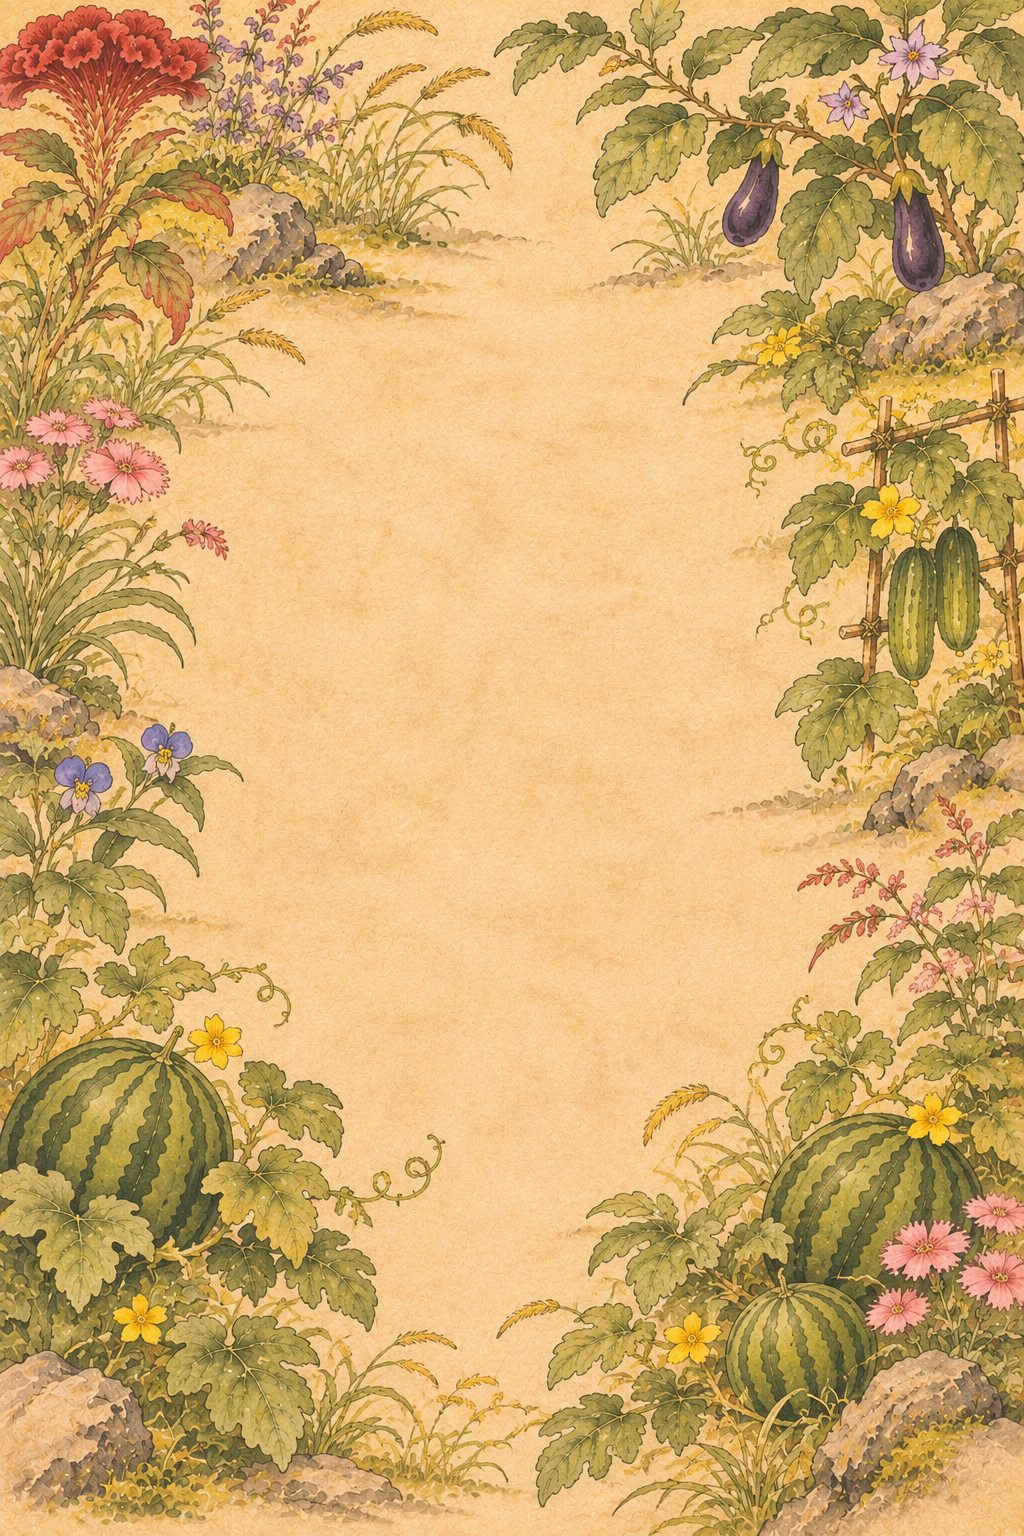
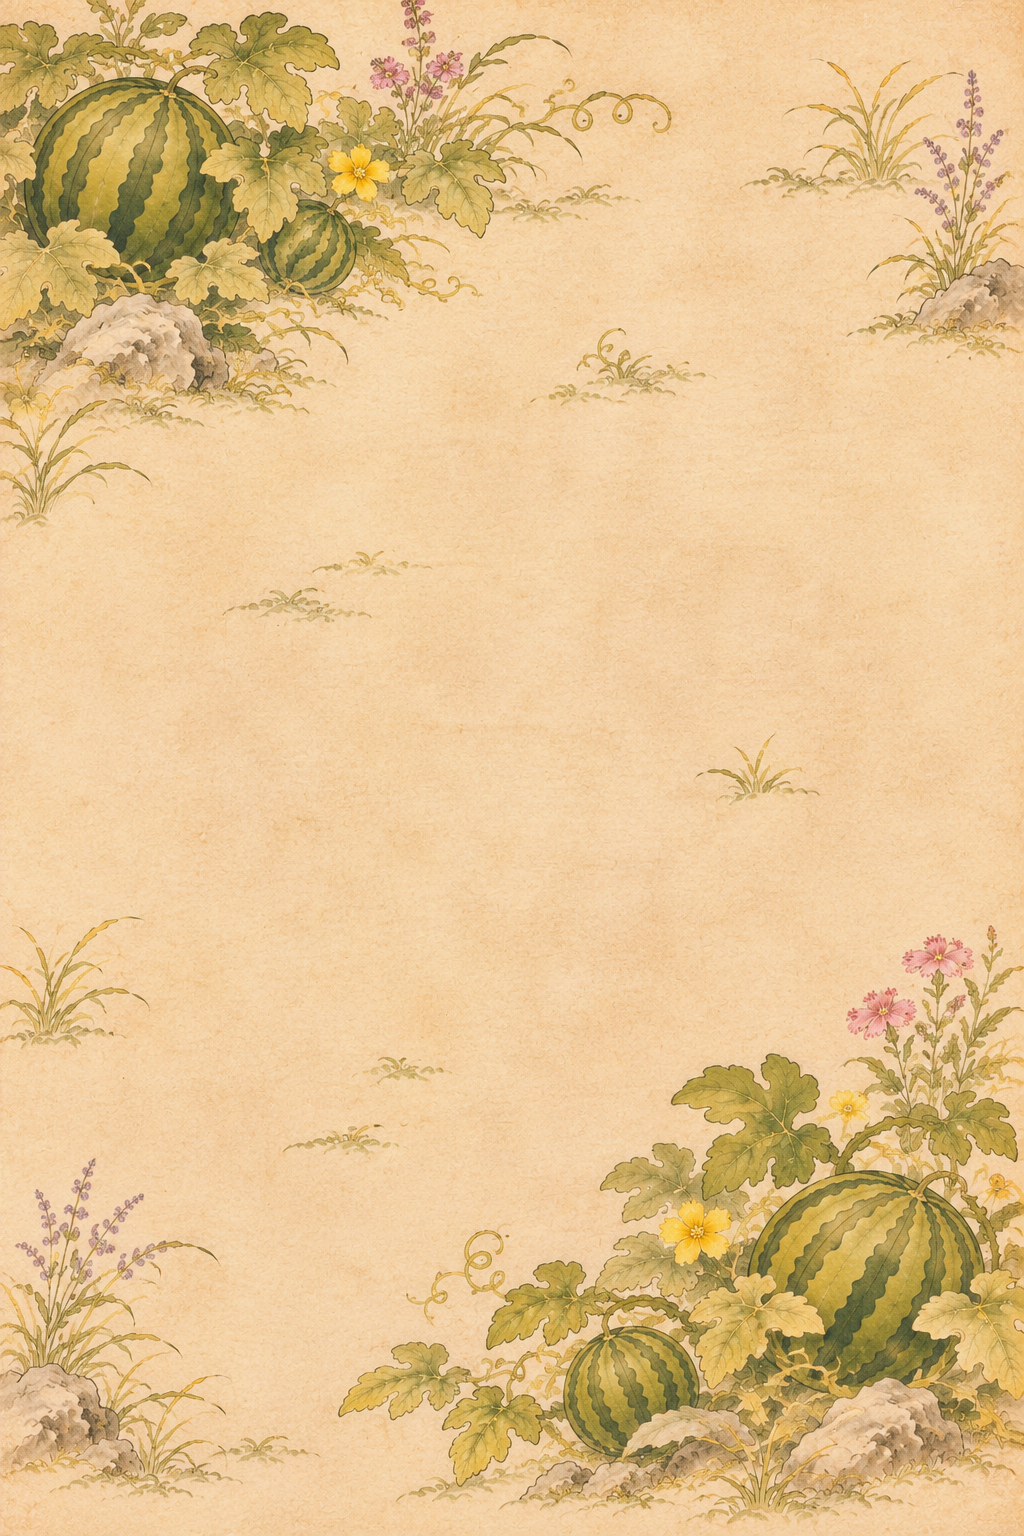
art(chochungdo): 구역 2 새 그림 — 양귀비(추천)·수박(예비) 대각 배치, 종이 색을 지금 초충도에 맞춤
- 사용자 23:10 두 장을 chochungdo_poppy / chochungdo_melon(앞 판 교체)으로. 23:04 세 장과 앞 수박 판은 build/stage_src/chochungdo_orig/rejected/
- 종이 색 맞춤(생성형 없음): 가운데 빈 종이 중앙값을 chochungdo.png 종이(243,209,165)로, 종이에 가까운 색만 옮겨 식물 색은 그대로. 연못가(pond)도 같은 주황빛이라 함께 맞춤
- 글자·도장·동물 없음
- 걸을 곳·양옆 열린 높이 다시: 양귀비 왼 512~1064 / 오 366~947, 수박 왼 519~969 / 오 353~968 — 연못 왼 882~1176과 겹침
- 미리보기 두 안: (가) 지금→양귀비→연못, (나) 지금→수박→연못 (+ 표시 없는 판)

diff --git a/tools/art/zone_maps_layout.py b/tools/art/zone_maps_layout.py
@@ -9,9 +9,10 @@
 ZONES = {
     "manchuria": ["manchuria_395", "manchuria_palisade", "manchuria_camp"],
     "gyeongbokgung": ["gyeongbokgung_gate_road", "gyeongbokgung_1433", "gyeongbokgung_terrace"],
-    "chochungdo": ["chochungdo", "chochungdo_melon", "chochungdo_pond"],
+    "chochungdo": ["chochungdo", "chochungdo_poppy", "chochungdo_pond"],        # 안 (가): 양귀비 (추천)
+    "chochungdo_b": ["chochungdo", "chochungdo_melon", "chochungdo_pond"],      # 안 (나): 수박 (사임당 2판 예비)
 }
-HORIZONTAL = {"chochungdo"}
+HORIZONTAL = {"chochungdo", "chochungdo_b"}
 
 ## 지금 있는 구역의 걸을 곳은 무대 데이터(walk_area, background_rect)에서 읽는다.
 EXISTING = {"manchuria_395", "gyeongbokgung_1433", "chochungdo"}
@@ -37,10 +38,15 @@ WALK = {
         (745, 1150), (745, 1440), (280, 1440), (280, 1150), (70, 1140), (60, 900), (65, 700), (85, 520),
         (195, 495), (195, 345),
     ],
+    # 대각 배치: 왼쪽 위·오른쪽 아래 무더기, 가운데 옅은 풀 (풀 자국은 걸을 수 있음)
     "chochungdo_melon": [
-        (240, 340), (560, 300), (680, 300), (700, 420), (780, 470), (780, 800), (840, 860), (790, 1000),
-        (700, 1080), (560, 1250), (520, 1500), (440, 1500), (430, 1300), (380, 1040), (330, 1000),
-        (250, 960), (230, 720), (190, 700), (200, 580), (230, 560), (230, 400),
+        (240, 420), (500, 330), (600, 150), (790, 190), (860, 360), (1010, 400), (1010, 960), (840, 960),
+        (700, 1080), (560, 1220), (400, 1340), (380, 1500), (250, 1500), (230, 1380), (230, 1160),
+        (10, 1150), (10, 560), (130, 520),
+    ],
+    "chochungdo_poppy": [
+        (380, 450), (520, 150), (720, 150), (760, 390), (1010, 400), (1010, 900), (860, 900), (700, 1060),
+        (560, 1300), (320, 1420), (240, 1370), (240, 1030), (10, 1020), (10, 530), (120, 520),
     ],
     "chochungdo_pond": [
         (250, 430), (620, 420), (700, 470), (740, 640), (840, 800), (850, 920), (1000, 960), (1000, 1180),
@@ -56,7 +62,8 @@ CROSS = {
     "gyeongbokgung_gate_road": {"계단 올라 큰 문": (550, 290)},
     "gyeongbokgung_1433": {"위 가장자리 가운데": (512, 330)},
     "chochungdo": {"오른쪽 열린 곳 (아래)": (990, 1395), "오른쪽 열린 곳 (가운데 아래)": (990, 1165)},
-    "chochungdo_melon": {"오른쪽 — 식물로 막힘 (맨 아래만 틈)": (990, 1490)},
+    "chochungdo_melon": {"오른쪽 열림 (연못 왼쪽 열림과 겹치는 높이)": (990, 920)},
+    "chochungdo_poppy": {"오른쪽 열림 (연못 왼쪽 열림과 겹치는 높이)": (990, 920)},
 }
 
 ## 앞 구역에서 넘어와 처음 서는 곳
@@ -65,7 +72,8 @@ LAND = {
     "manchuria_camp": (495, 1440),
     "gyeongbokgung_1433": (512, 1300),
     "gyeongbokgung_terrace": (512, 1390),
-    "chochungdo_melon": (300, 880),      # 왼쪽 가장자리는 식물로 막힘 — 그림 안쪽으로 바로 내림
+    "chochungdo_melon": (90, 900),       # 왼쪽 y 519~969 열림
+    "chochungdo_poppy": (90, 900),       # 왼쪽 y 512~1064 열림
     "chochungdo_pond": (90, 1000),       # 왼쪽 y 880~1180 열림
 }
 

diff --git a/tools/art/make_zone_maps.py b/tools/art/make_zone_maps.py
@@ -31,8 +31,16 @@ CLEAN = {
         ("soften", 895, 417, 24, 13, 0, 0),   # 오른쪽 향로 둥근 무늬
     ],
     "chochungdo_melon": [],
+    "chochungdo_poppy": [],
     "chochungdo_pond": [],
 }
+
+## 종이 색 맞춤: 초충도 새 폭은 지금 chochungdo.png 종이(가운데 빈 곳 중앙값)에 맞춘다.
+## 종이에 가까운 색일수록 많이, 식물·먹선처럼 먼 색은 거의 안 옮긴다 (가중치 exp(-(거리/PAPER_SIGMA)²)).
+PAPER_REF = "chochungdo"
+PAPER_MATCH = {"chochungdo_melon", "chochungdo_poppy", "chochungdo_pond"}
+PAPER_BOX = (350, 600, 700, 1000)
+PAPER_SIGMA = 60.0
 STAGE = {"manchuria": "manchuria_orig", "gyeongbokgung": "gyeongbokgung_orig", "chochungdo": "chochungdo_orig"}
 
 
@@ -52,14 +60,30 @@ def clean(img: Image.Image, spots, feather: float = 2.5) -> Image.Image:
     return out
 
 
+def paper_color(img: Image.Image):
+    import numpy as np
+    return np.median(np.asarray(img.convert("RGB").crop(PAPER_BOX)).reshape(-1, 3).astype(float), axis=0)
+
+
+def match_paper(img: Image.Image, target) -> Image.Image:
+    import numpy as np
+    a = np.asarray(img.convert("RGB")).astype(float)
+    src = paper_color(img)
+    w = np.exp(-((np.linalg.norm(a - src, axis=2) / PAPER_SIGMA) ** 2))[..., None]
+    return Image.fromarray(np.clip(a + w * (np.asarray(target) - src), 0, 255).astype("uint8"))
+
+
 def raw_of(sid: str) -> str:
     return raw_path(f"build/stage_src/{STAGE[sid.split('_')[0]]}/{sid}_raw.png")
 
 
 def main() -> None:
     os.makedirs(os.path.join(ROOT, "assets/backgrounds"), exist_ok=True)
+    target = paper_color(Image.open(os.path.join(ROOT, MAPS, f"{PAPER_REF}.png")))
     for sid, spots in CLEAN.items():
         src = clean(Image.open(raw_of(sid)).convert("RGB"), spots)
+        if sid in PAPER_MATCH:
+            src = match_paper(src, target)
         src.save(os.path.join(ROOT, MAPS, f"{sid}.png"), optimize=True)
         upscale(src).save(os.path.join(ROOT, "assets/backgrounds", f"{sid}.png"), optimize=True)
         print(sid, f"{len(spots)} spots", src.size, "->", (src.width * 2, src.height * 2))

diff --git a/tools/art/zone_maps_preview.py b/tools/art/zone_maps_preview.py
@@ -132,7 +132,10 @@ def main():
         s = stack(stage, lay)
         s.thumbnail((2400, 2400), Image.LANCZOS)
         s.save(os.path.join(OUT, f"{stage}_stack.jpg"), quality=86)
-        if stage in L.HORIZONTAL:
+        if stage in L.HORIZONTAL:  # 종이 색 비교용: 표시 없이
+            plain = stack(stage, [load(sid) for sid in sids])
+            plain.thumbnail((2400, 2400), Image.LANCZOS)
+            plain.save(os.path.join(OUT, f"{stage}_plain.jpg"), quality=86)
             for sid in sids:
                 img = load(sid)
                 print(sid, "열림 L", open_runs(img, "L"), "R", open_runs(img, "R"))
